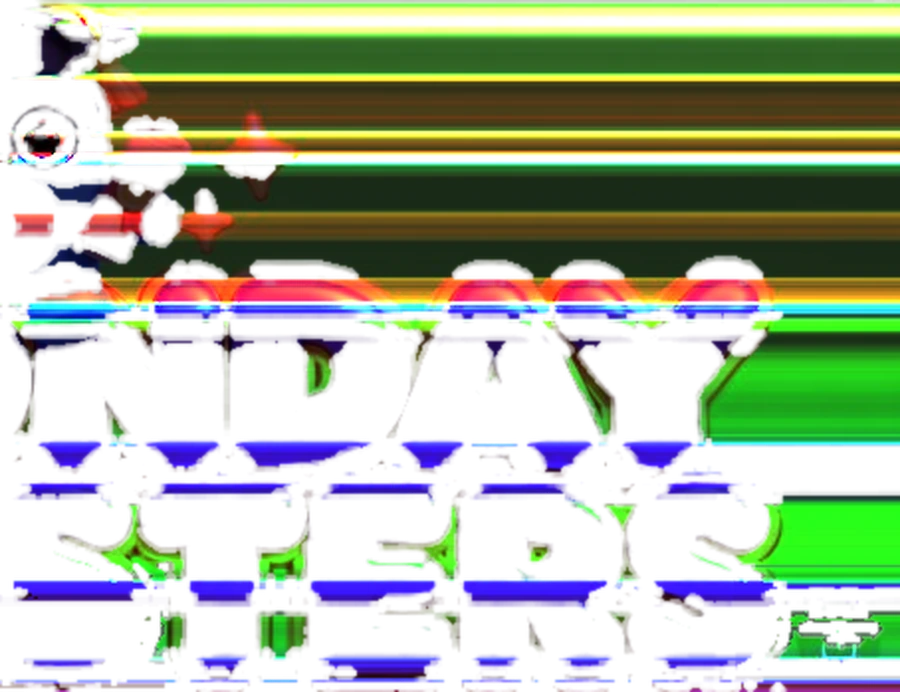
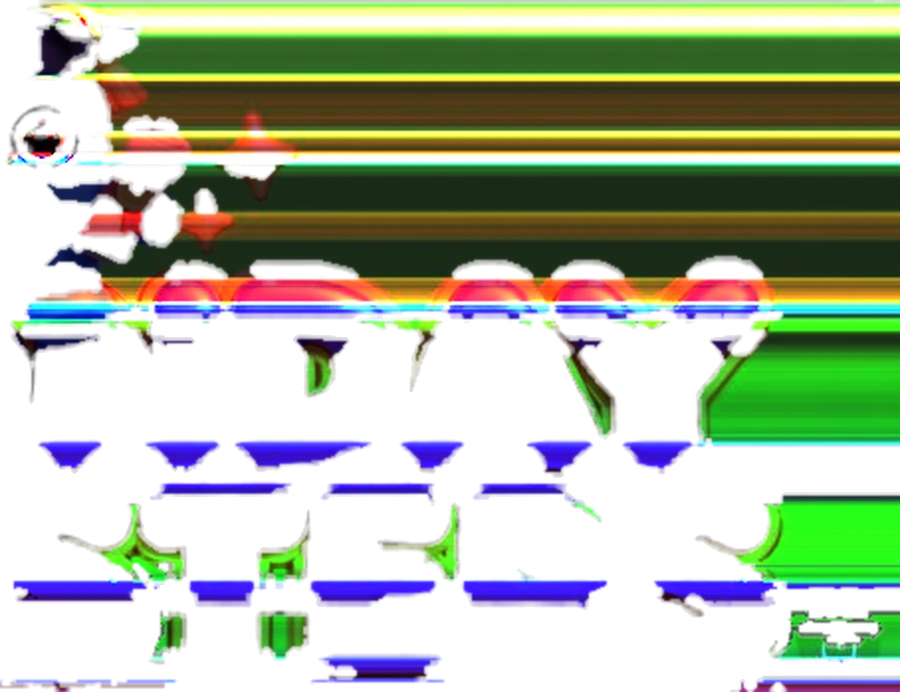
Art: WORDOCIOUS DAILIES title, seamless letter-tile background pattern, despecked day titles (Friday hairline); ART_SPEC §11–§13 (page tint + tiles backgrounds, Home section titles, W/L row badges).

diff --git a/docs/design/brand/ship-art.py b/docs/design/brand/ship-art.py
@@ -24,7 +24,7 @@ os.makedirs(WEB, exist_ok=True)
 
 DAYS = ['monday', 'tuesday', 'wednesday', 'thursday', 'friday', 'saturday', 'sunday']
 PAGES = ['friends', 'stats', 'records', 'vs', 'puzzles', 'wotd', 'settings', 'howto', 'gopro', 'moregames',
-         'welcome', 'leaderboard']
+         'welcome', 'leaderboard', 'dailies']
 GAMES = ['practice', 'vs', 'quordle', 'octordle', 'sequence', 'rescue', 'six', 'seven', 'gauntlet',
          'propernoundle', 'more', 'sudoku', 'scramble', 'hub', 'crossword', 'groups', 'ladder',
          'cryptogram', 'wordsearch', 'regions',
@@ -38,8 +38,21 @@ def trim(im):
     return im.crop(im.getchannel('A').point(lambda v: 255 if v > 24 else 0).getbbox())
 
 
+def despeck(im):
+    """Drop specks/hairlines left by the capture (components under 0.4% of the biggest)."""
+    import numpy as np
+    from scipy import ndimage
+    a = np.array(im)
+    lab, n = ndimage.label(a[..., 3] > 40)
+    if n > 1:
+        sz = ndimage.sum(np.ones_like(lab), lab, range(1, n + 1))
+        keep = np.isin(lab, [i + 1 for i, v in enumerate(sz) if v >= sz.max() * 0.004])
+        a[..., 3] = np.where(ndimage.binary_dilation(keep, iterations=2), a[..., 3], 0)
+    return Image.fromarray(a)
+
+
 def wide(path, width=1080):
-    im = trim(Image.open(path).convert('RGBA'))
+    im = trim(despeck(Image.open(path).convert('RGBA')))
     if im.width > width:
         im = im.resize((width, round(im.height * width / im.width)), Image.LANCZOS)
     return im
@@ -88,4 +101,5 @@ for g in GAMES:
     if g.startswith('pocket-') or g in ('vs', 'more'):
         continue
     ship(f'art-game-{g}', wide(os.path.join(HERE, 'titles', f'gt-{g}-title.png'), 900)); n += 1
+ship('art-bg-tiles', Image.open(os.path.join(HERE, 'backgrounds', 'tile-pattern.png')).convert('RGBA')); n += 1
 print('shipped', n)

diff --git a/docs/design/brand/titles/compose-cast-title.py b/docs/design/brand/titles/compose-cast-title.py
@@ -98,6 +98,13 @@ LAYOUTS = {
         'top': [('o1', 'cheer'), ('r', 'sit'), ('d', 'sit'), ('o2', 'cheer'),
                 ('c', 'sit'), ('i', 'cheer'), ('o3', 'sit'), ('u', 'meditate')],
     },
+    'dailies': {
+        'lettering': 'dailies-lettering-keyed.png',
+        'left': [('w', 'cheer', False)],
+        'right': [('s', 'slide', False)],
+        'top': [('o1', 'lean'), ('r', 'cheer'), ('d', 'lean'), ('o2', 'sit'),
+                ('c', 'cheer'), ('i', 'sit'), ('o3', 'sneak'), ('u', 'stretch')],
+    },
 }
 
 

diff --git a/docs/ART_SPEC.md b/docs/ART_SPEC.md
@@ -125,3 +125,44 @@ cryptogram, wordsearch, regions): the game's name lettered in its own accent col
 - Parity fixes from pass 2: the VS "already played" screen shows the `u-alldone` scene and its
   W/L result as `youwin` / `youlose` art (≈28 pt tall) on all three platforms (Android has it; iOS
   and web align).
+
+## 11. Page backgrounds — "page tint + tiles" (founder pick, 2026-10-02 morning)
+
+Founder: "The pages look cool, but unfinished … some sort of background?" → mockups in
+docs/design/brand/backgrounds/mock-compare.png → picked B + tiles. One shared `PageBackground(tint)`
+per platform, drawn behind every tab/page's scroll content (below the header, edge to edge,
+behind the status bar too; the tab bar keeps its own surface):
+1. A soft diagonal gradient (top-left → bottom-right, 3 stops) per tint:
+
+| tint | light stops | dark stops |
+|---|---|---|
+| home (Home, Settings, Pro, Help/Guides, profile, default) | #F3EEFF → #FBEFFF → #FFF1F7 | #160F26 → #1C1231 → #22122C |
+| leaderboard (Leaderboard, Records) | #FFF8E6 → #FFEFD2 → #FDE9F2 | #1E1608 → #23160D → #241221 |
+| stats | #EEF4FF → #EEEBFF → #F4EEFF | #0E1530 → #141433 → #1A1233 |
+| friends | #FFF0F7 → #FCE7F3 → #F3E8FF | #241024 → #22102A → #1A1030 |
+| vs (VS pages) | #E9FBF8 → #ECF6FF → #F1EEFF | #08201E → #0E1A2A → #15142B |
+
+2. On top, the shipped tile pattern `art-bg-tiles` (640 px seamless, transparent) repeated across
+   the page at 12% opacity in light mode, 7% in dark, drawn at 320 pt per tile (so tiles read
+   ~20–32 pt), fixed to the page (it scrolls with the content is fine too — pick what's natural per
+   platform, same on all three if possible).
+3. Cards: keep white (dark: current surface) but tint their shadow toward the page's accent
+   (home #7c3aed, leaderboard #f59e0b, stats #2563eb, friends #ec4899, vs #0d9488) at ~10–12%
+   alpha, radius 12–16, y 4–6, so they lift off the tint. Sections that sat on the old flat
+   background need no other change.
+The old flat page background color is replaced everywhere these pages render. Respect reduce
+transparency/contrast settings where the platform exposes them (fall back to the gradient only).
+
+## 12. Home section titles
+
+- New `art-title-dailies` (whole cast around WORDOCIOUS DAILIES): the section header above the
+  WORDOCIOUS daily games on Home, styled exactly like the PUZZLES art header (same width rule,
+  alignment, spacing, scroll anchor if any), replacing the text header there.
+- Word of the Day: move `art-title-wotd` OUT of the card — it becomes a section header above the WOTD
+  card at the same size/alignment as the PUZZLES header; the card keeps its content; "Past words"
+  stays a link at the right of that header row (or inside the card top if there's no room).
+
+## 13. Small fixes
+
+- Leaderboard / Records / recent-match rows that show a text "Win" / "Loss" chip use the
+  `icon3d-badge-w` / `icon3d-badge-l` art at ~18 pt with the same accessibility label.
